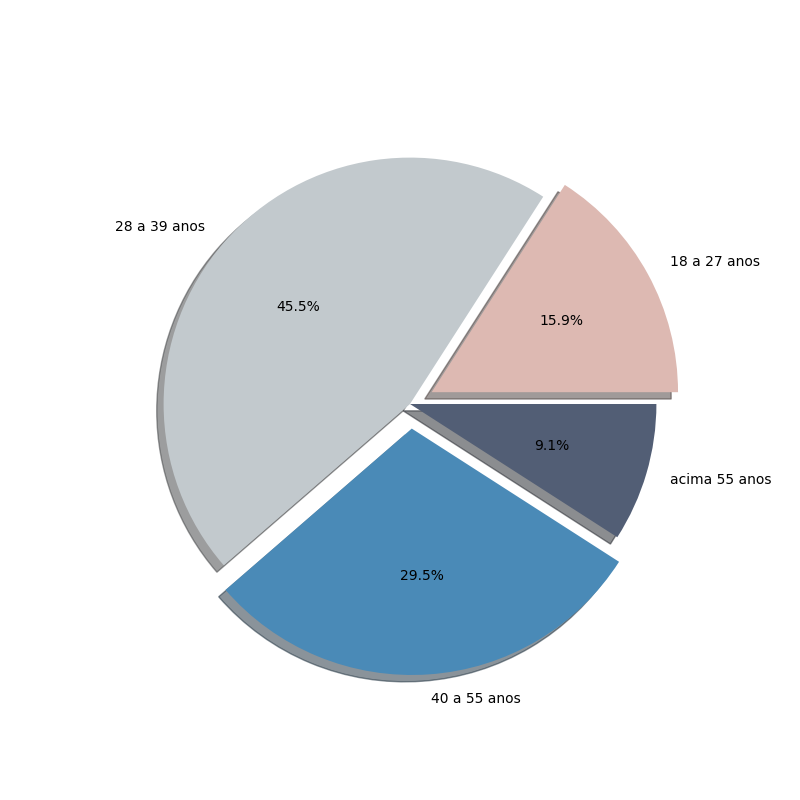
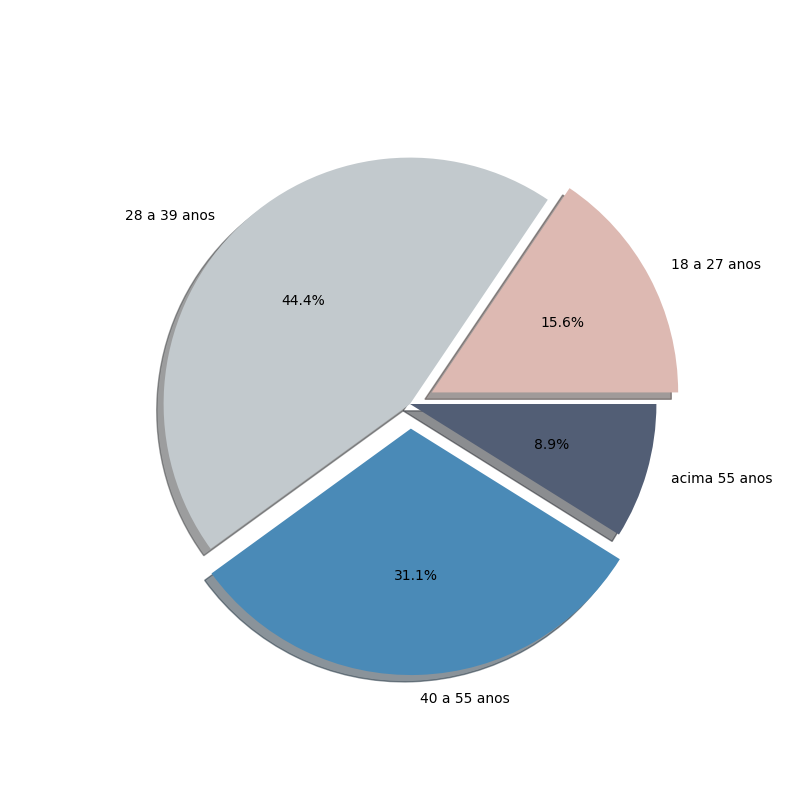
Colocar gráfico que se atualiza a cada envio do formulário #56

diff --git a/matplot.py b/matplot.py
@@ -1,29 +1,19 @@
 import matplotlib.pyplot as plt
 
-# plt.rcParams.update({'font.size':10})
-# rotulos = ['18 a 27 anos', '28 a 39 anos', '40 a 55 anos', 'acima 55 anos']
-# valores = [40, 14, 17, 29]
-# c = ['#ddb9b2', '#c2c9cd', '#4a8ab7', '#525e75']
-# explode = (.1, 0, .1, 0)
-#
-# plt.figure(figsize=(8, 8))
-#
-# plt.pie(x=valores, labels=rotulos, autopct='%1.1f%%', colors=c, shadow=True, explode=explode)
-# plt.savefig('teste.png')
-# plt.show()
-# plt.close()
+a = 15.56
+b = 44.44
+c = 31.11
+d = 8.89
 
+plt.rcParams.update({'font.size':10})
+rotulos = ['18 a 27 anos', '28 a 39 anos', '40 a 55 anos', 'acima 55 anos']
+valores = [a, b, c, d]
+c = ['#ddb9b2', '#c2c9cd', '#4a8ab7', '#525e75']
+explode = (.1, 0, .1, 0)
 
+plt.figure(figsize=(8, 8))
 
-    plt.rcParams.update({'font.size': 10})
-    rotulos = ['18 a 27 anos', '28 a 39 anos', '40 a 55 anos', 'acima 55 anos']
-    valores = [dezoito_porc, vinteoito_porc, quarenta_porc, cinquenta_porc]
-    c = ['#ddb9b2', '#c2c9cd', '#4a8ab7', '#525e75']
-    explode = (.1, 0, .1, 0)
-
-    plt.figure(figsize=(8, 8))
-
-    plt.pie(x=valores, labels=rotulos, autopct='%1.1f%%', colors=c, shadow=True, explode=explode)
-    plt.savefig('../static/imagens/teste.png')
-    plt.show()
-    plt.close()
+plt.pie(x=valores, labels=rotulos, autopct='%1.1f%%', colors=c, shadow=True, explode=explode)
+plt.savefig('static/imagens/teste_5.png')
+plt.show()
+plt.close()

diff --git a/app.py b/app.py
@@ -1,6 +1,8 @@
 import sqlite3
 from flask import Flask, render_template, request, url_for, flash, redirect
 from werkzeug.exceptions import abort
+import matplotlib.pyplot as plt
+
 
 
 def get_db_connection():
@@ -152,6 +154,18 @@ def relatorio():
     else:
         meio_fraude = ('um site da internet')
 
+    plt.rcParams.update({'font.size': 10})
+    rotulos = ['18 a 27 anos', '28 a 39 anos', '40 a 55 anos', 'acima 55 anos']
+    valores = [dezoito_porc, vinteoito_porc, quarenta_porc, cinquenta_porc]
+    c = ['#ddb9b2', '#c2c9cd', '#4a8ab7', '#525e75']
+    explode = (.1, 0, .1, 0)
+
+    plt.figure(figsize=(8, 8))
+
+    plt.pie(x=valores, labels=rotulos, autopct='%1.1f%%', colors=c, shadow=True, explode=explode)
+    plt.savefig('static/imagens/diagrama-pizza.png')
+    plt.show()
+    plt.close()
 
     conn.commit()
     conn.close()
